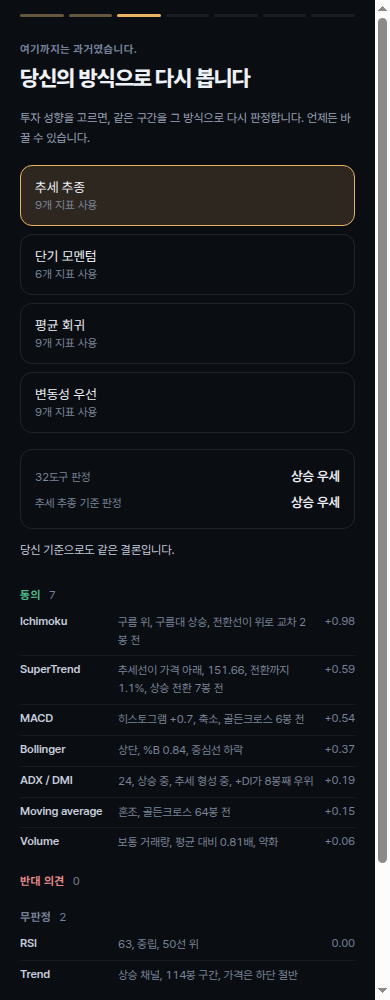
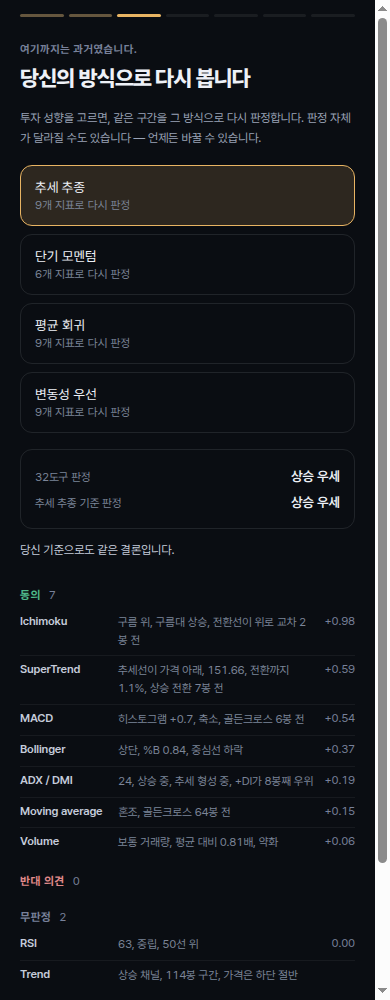
fix(mobile): 온보딩 3단계 리뷰 1/5 — 무판정 설명·유인 문구·강조 역전을 고친다
Important 3건 + Minor 1건, 전부 "성향이 판정을 바꾸는 것을 겪게 한다"는 이 화면의
존재 이유에 직접 닿는다.

A — momentum(중립)을 고르면 classifyFull32가 voiced 행을 전부 무판정으로 보낸다
(want===0, report.js·2단계와 같은 로직이라 손대지 않았다). 개별 지표는 뚜렷한 방향
(Stochastic −0.62)을 말하는데도 그렇다 — 판정이 갈리는 유일한 화면에서 사용자가
"왜 무판정이지"를 보게 된다. 판정이 실제로 중립일 때만 설명 한 줄을 붙였다(방향이
있는 판정의 "약한 신호" 무판정에는 안 붙는다 — 그때는 이 설명이 사실과 다르다).

B — obSub3가 "언제든 바꿀 수 있다"만 말해 눌러볼 유인이 없었다. "판정 자체가 달라질
수도 있습니다"를 더하되 어느 성향이 갈리는지는 안 밝힌다(표본이 바뀌면 거짓말이
된다). 카드 설명도 "N개 지표 사용"(수동태) → "N개 지표로 다시 판정"으로 바꿔 고르는
행위가 새 계산을 일으킨다는 신호를 더했다.

C — .ob32-verdict-note.is-diff가 is-same보다 약하게 강조돼 있었다(같음=ink-2 밝음,
다름=기본 ink-3 어두움 — 강조가 거꾸로). is-diff에 --ink(가장 밝음)+font-weight:
--fw-semibold를 더해 최소한 같은 만큼은, 실제로는 더 눈에 띄게 했다. 좌측 세로 라인은
쓰지 않는다. 2단계도 같은 클래스를 공유하므로 이 규칙을 그대로 물려받는다.

Minor — test/strings.test.mjs의 "MoneyScoop" 허용 라틴 항목이 삭제된 obRisk를
가리키던 주석을 고쳤다. 지금은 어떤 값도 이 단어를 안 쓰지만 항목은 유지한다 — Task 6
이 새 4단계(동의)에서 같은 취지의 문구를 다시 쓸 가능성이 크다.

관문 강화: 실제 브라우저에서 momentum을 골라 getComputedStyle로 is-diff가 is-same보다
실제로 밝고 굵은지, 무판정 설명·Stochastic 행(이름·판독 문장·기여도 숫자)이 실제로
그려지는지, 부제에 유인 문구가 있는지를 확인한다.

diff --git a/map/mobile/www/strings.js b/map/mobile/www/strings.js
@@ -578,8 +578,13 @@
     // 4종 모두 다르므로 판정이 같아도 "고르면 갱신된다"는 항상 성립한다.
     obPastDone: "여기까지는 과거였습니다.",
     obH3: "당신의 방식으로 다시 봅니다",
-    obSub3: "투자 성향을 고르면, 같은 구간을 그 방식으로 다시 판정합니다. 언제든 바꿀 수 있습니다.",
-    obStyleIndicatorSuffix: "개 지표 사용",
+    // 리뷰 B(1/5) — "언제든 바꿀 수 있습니다"만으로는 눌러볼 유인이 없다. "판정 자체가
+    // 달라질 수도 있습니다"를 더한다 — 어느 성향이 실제로 갈리는지는 말하지 않는다(표본이
+    // 바뀌면 거짓말이 된다, 리뷰 지시).
+    obSub3: "투자 성향을 고르면, 같은 구간을 그 방식으로 다시 판정합니다. 판정 자체가 달라질 수도 있습니다 — 언제든 바꿀 수 있습니다.",
+    // 리뷰 B — "사용"(수동태, 이미 끝난 일처럼 읽힌다) 대신 "다시 판정"(고르는 행위가 곧
+    // 새 계산을 일으킨다는 신호)으로 바꿨다. "9개 지표 사용" → "9개 지표로 다시 판정".
+    obStyleIndicatorSuffix: "개 지표로 다시 판정",
     // "추세 추종" + 이 접미사 → "추세 추종 기준 판정" — obVerdictLabelSuffix("도구 판정")와
     // 짝을 이루는 두 번째 비교 행 라벨이다.
     obStyleVerdictSuffix: " 기준 판정",
@@ -587,6 +592,11 @@
     // 32개 도구는 A + word(32도구) + B + 성향 이름 + C + word(성향) + D. ob32DiffA~D 와
     // 같은 자리에 성향 이름이 n5 대신 들어간다는 점만 다르다.
     ob3DiffA: "32개 도구는 ", ob3DiffB: "라고 봤지만, ", ob3DiffC: " 기준으로 보면 ", ob3DiffD: "입니다.",
+    // 리뷰 A(1/5) — 판정이 중립(want===0)이면 voiced 행 전부가 "무판정"으로 간다. 개별
+    // 지표는 뚜렷한 방향(예: Stochastic −0.62)을 말하고 있는데도 그렇다 — classifyFull32
+    // 는 report.js·2단계와 같은 로직이라 손대지 않는다(브리프 금지). 이 문구가 "왜"를
+    // 대신 말한다: 지표가 말이 없는 게 아니라, 전체 판정에 편들 방향 자체가 없다는 뜻.
+    ob3FlatNeutralNote: "전체 판정이 중립이라 어느 방향도 편들 수 없습니다 — 지표 자체가 방향을 안 말한 것은 아닙니다. 아래 기여도 숫자를 참고하십시오.",
 
     // 4~6단계: 3모드 체험. 시안 16a~16c.
     obTutIntroH: "세 가지를 다 무료로 써보세요",

diff --git a/map/mobile/www/screens/onboarding.js b/map/mobile/www/screens/onboarding.js
@@ -737,6 +737,13 @@
       // full32Section 을 2단계와 그대로 재사용한다 — 근거 행의 형태를 새로 만들지 않는다).
       w.appendChild(full32Section("agree", MSStr.t.ob32AgreeHead, st.agree, false));
       w.appendChild(full32Section("dissent", MSStr.t.rpAgainst, st.dissent, false));
+      // 리뷰 A(1/5) — 판정이 중립(want===0)이면 classifyFull32 가 voiced 행을 전부 무판정으로
+      // 보낸다(2단계·report.js 와 같은 로직, 손대지 않는다). 이 화면은 momentum(neutral)을
+      // 처음으로 사용자에게 그리는 자리라 "Stochastic −0.62 인데 왜 무판정이지"가 처음
+      // 나온다 — 분류를 바꾸지 않고 그 앞에 이유를 한 줄 적는다. 판정이 실제로 중립일
+      // 때만 보인다(무판정이 늘 이 뜻은 아니다 — 방향이 있는 판정에서의 무판정은 "이
+      // 지표 자체가 약하다"는 뜻이라 이 설명이 안 맞는다).
+      if (regimeDir(st.regime) === 0) w.appendChild(el("p", "ob-note", MSStr.t.ob3FlatNeutralNote));
       w.appendChild(full32Section("flat", MSStr.t.ob32FlatHead, st.flat, false));
       w.appendChild(full32Section("refused", MSStr.t.ob32RefusedHead, st.refused, false, null, false));
 

diff --git a/map/mobile/www/style-onboarding.css b/map/mobile/www/style-onboarding.css
@@ -172,6 +172,12 @@
 .ob32-cmp-v { font-size:var(--fs-body); font-weight:var(--fw-semibold); color:var(--ink); }
 .ob32-verdict-note { margin-top:12px; font-size:var(--fs-sub); line-height:1.6; color:var(--ink-3); }
 .ob32-verdict-note.is-same { color:var(--ink-2); }
+/* 리뷰 C(1/5) — "갈렸다"가 "같다"보다 덜 강조돼 있었다(같음=ink-2 밝음, 다름=기본
+   ink-3 어두움, 강조가 거꾸로). 판정이 갈린 쪽이 최소한 같은 만큼은, 실제로는 더 눈에
+   띄어야 한다 — 텍스트색(가장 밝은 ink)과 글자 굵기로만 강조한다(좌측 세로 컬러 라인
+   금지, 방향색(bull/bear)도 안 쓴다 — "다름" 자체가 방향을 뜻하지 않으므로). 2단계도
+   같은 클래스를 쓰므로 이 규칙을 그대로 물려받는다. */
+.ob32-verdict-note.is-diff { color:var(--ink); font-weight:var(--fw-semibold); }
 
 .ob32-sec { margin-top:16px; }
 .ob32-sec-head { display:flex; align-items:baseline; gap:8px; margin-bottom:6px; }
